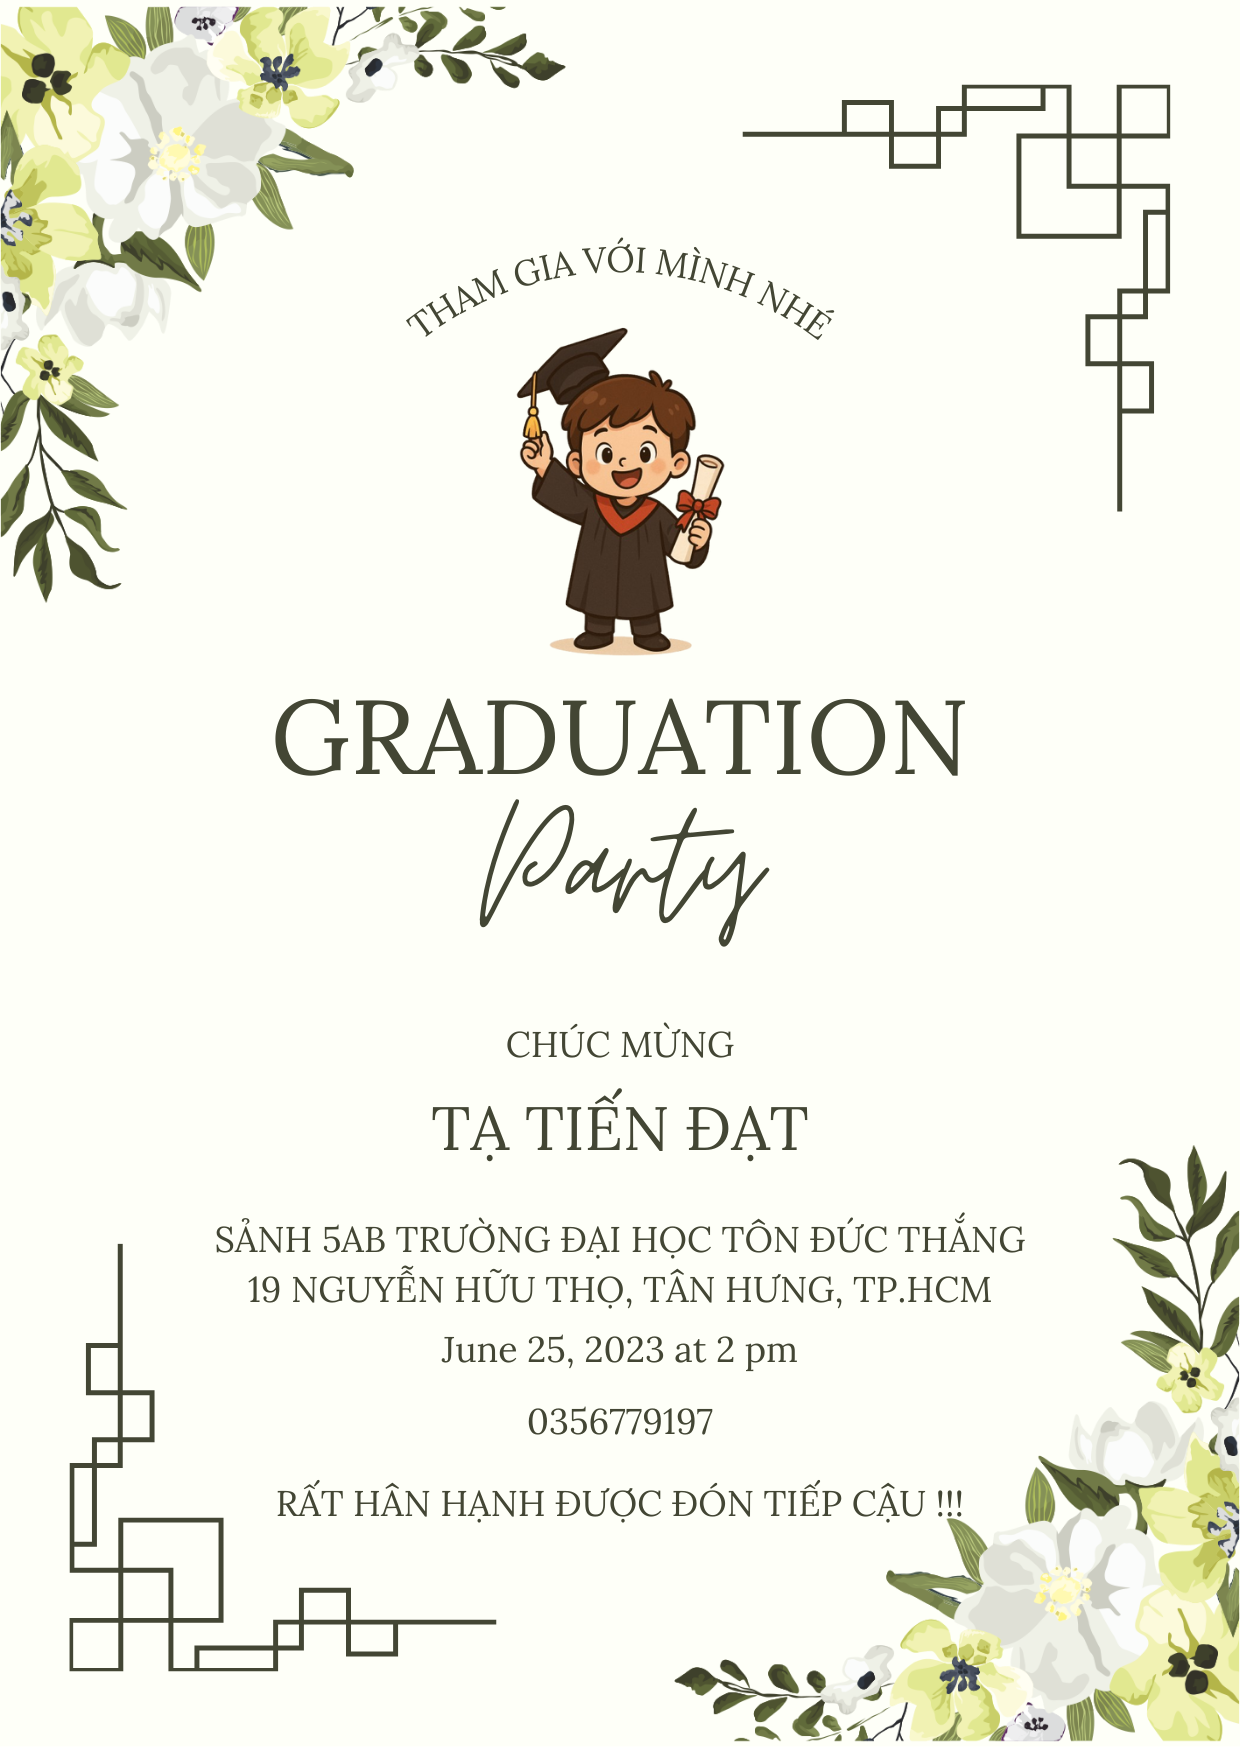
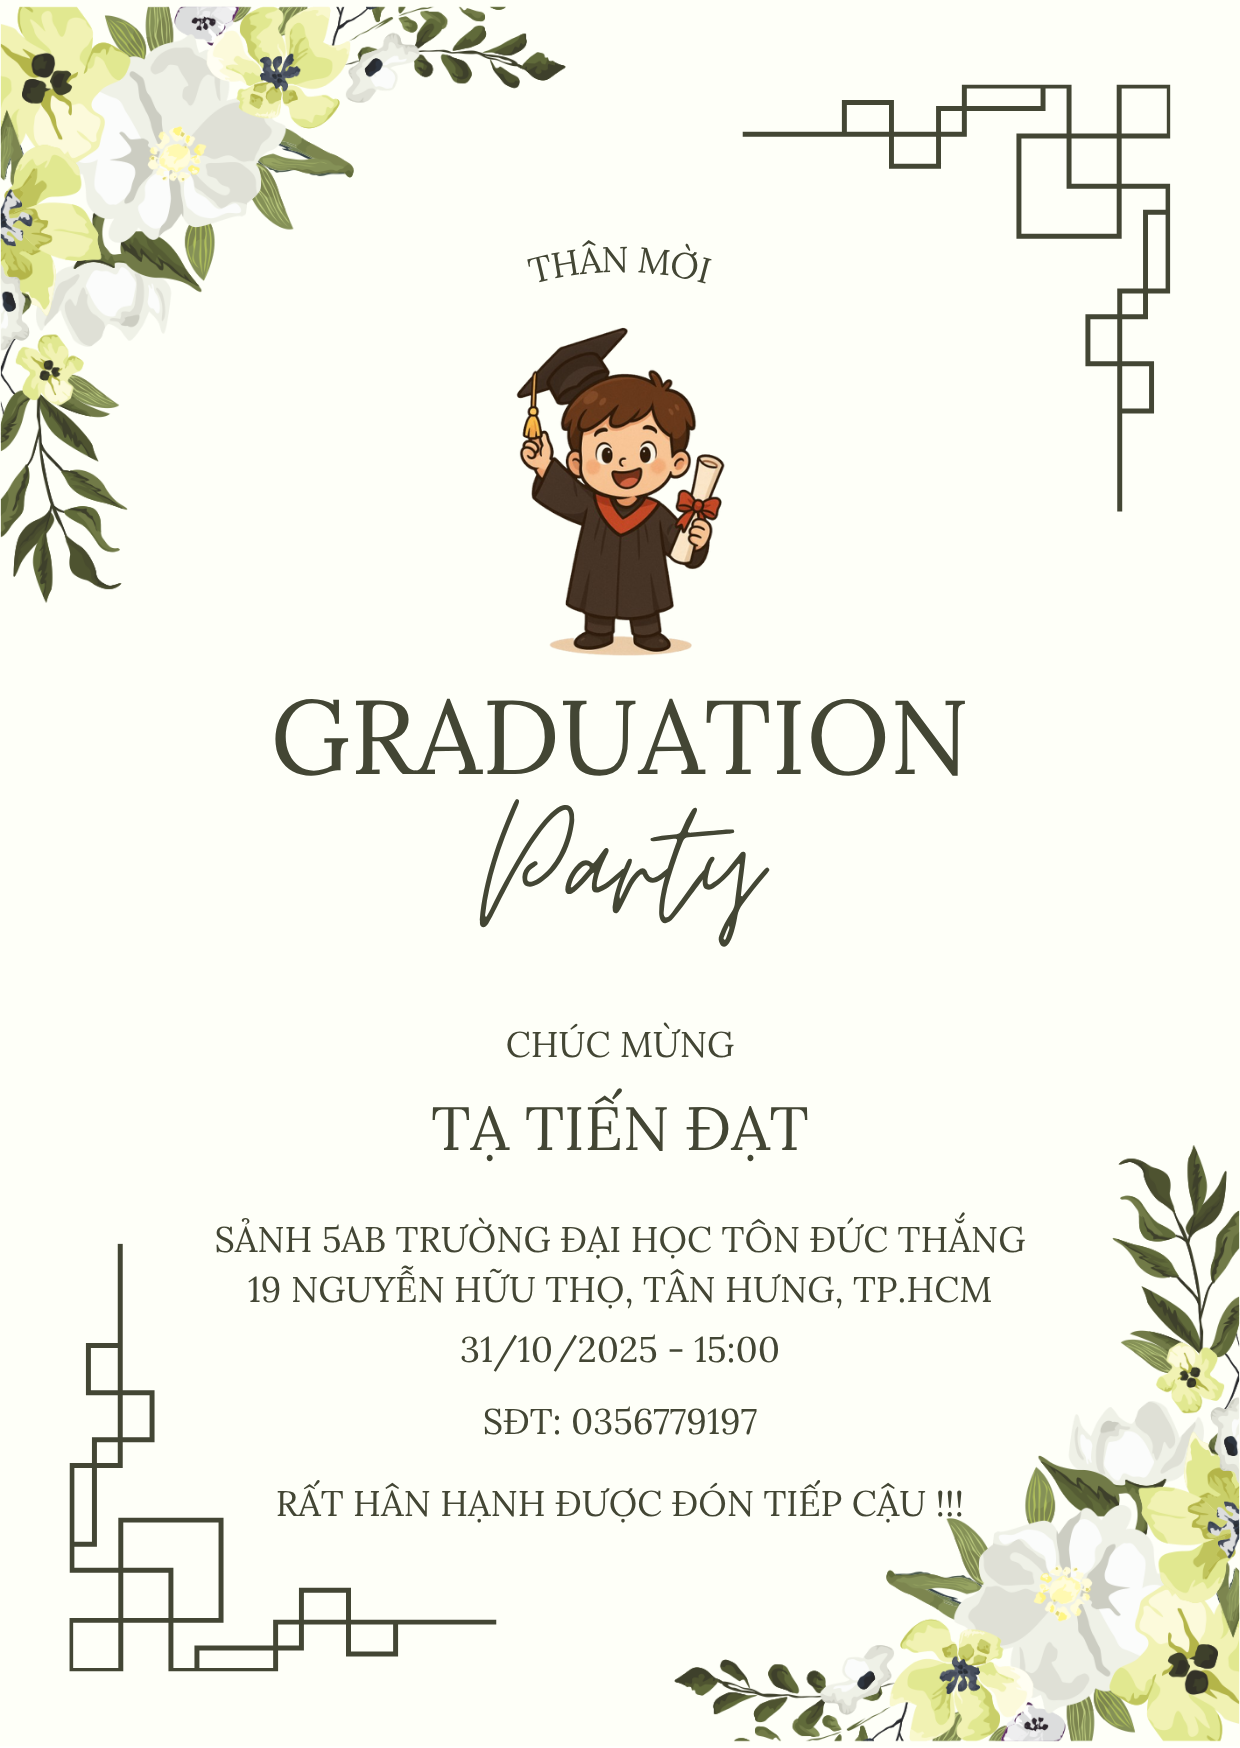
upload invitation

Changed region(s): [[0.3677, 0.7414, 0.6435, 0.8341], [0.3371, 0.1236, 0.5823, 0.1854], [0.5823, 0.1545, 0.6742, 0.1854]]

diff --git a/index.html b/index.html
@@ -64,7 +64,7 @@
     <section id="section-2" style="padding: 5px" class="normal-section full-page location">
       <div class="text-centre centre-section">
         <p>Địa điểm:<br> Sảnh 5AB - 19 Nguyễn Hữu Thọ, phường Tân Hưng, TP.HCM</p>
-        <p>Thời gian: ...</p>
+        <p>Thời gian: 31/10/2025 - 15:00 PM</p>
         <div class="memory-item">
           <img style="width: 100%;" src="./assets/1.png" alt="Hình ảnh 1"  />
           <img style="width: 100%;" src="./assets/2.png" alt="Hình ảnh 2"  />
